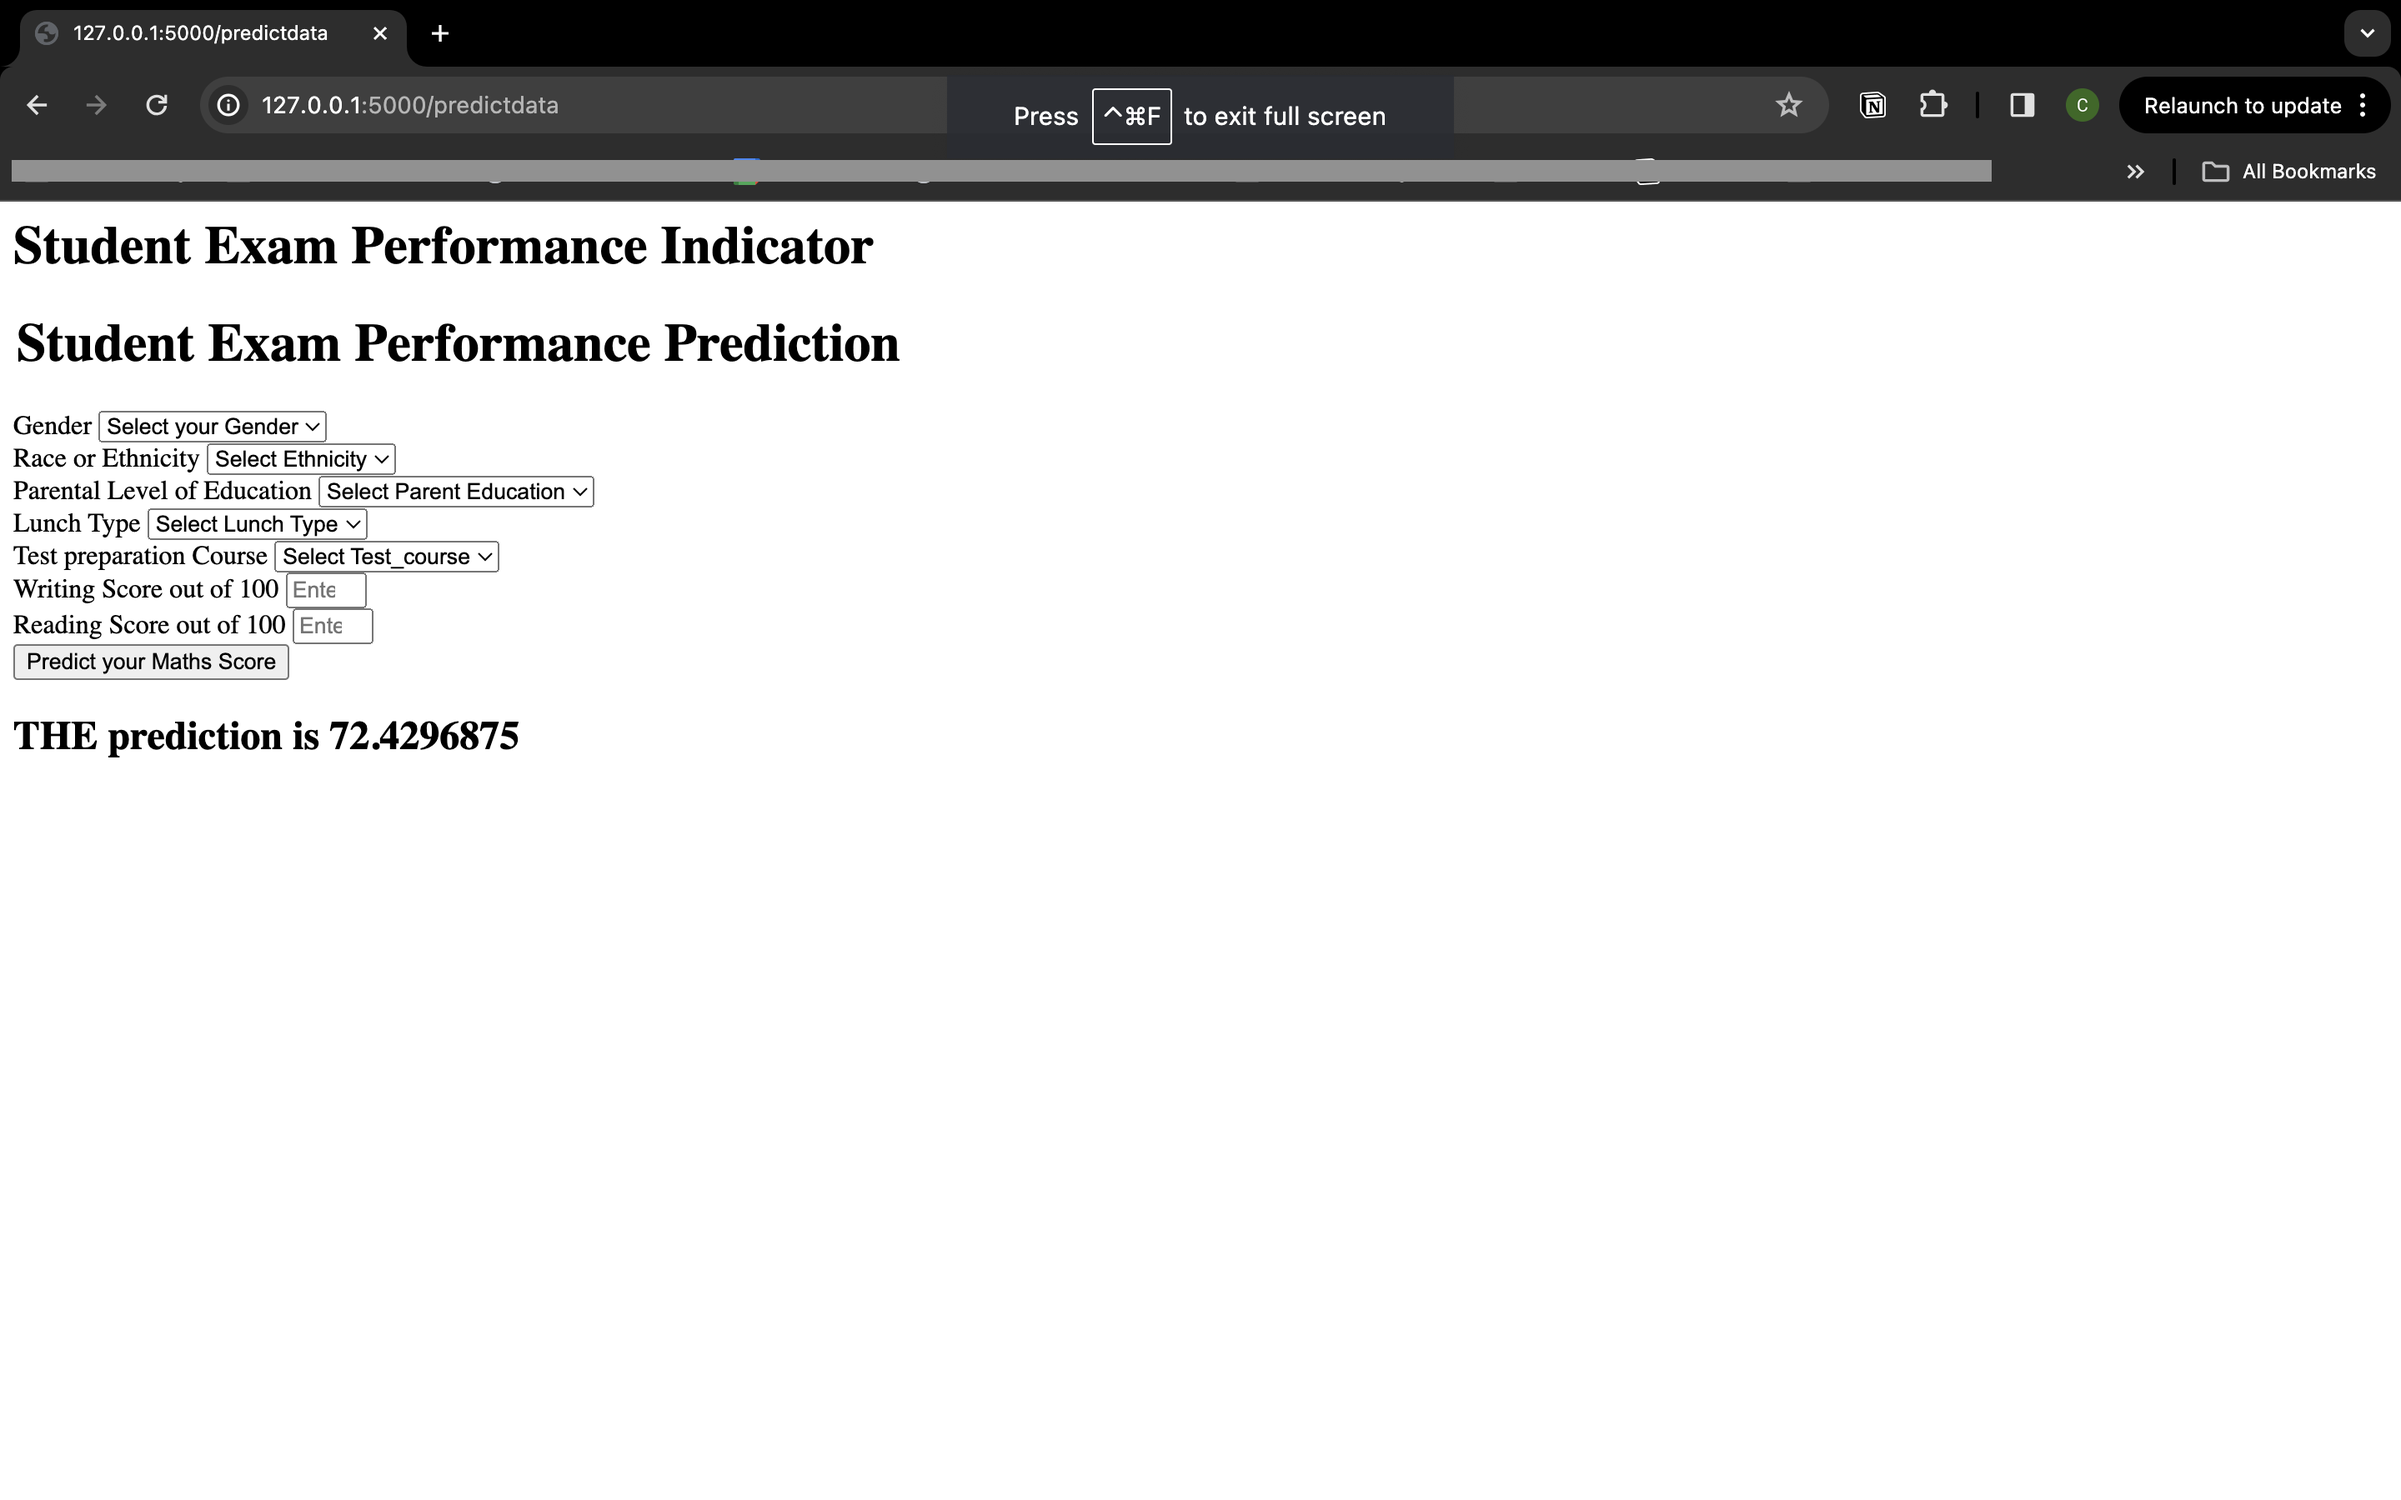
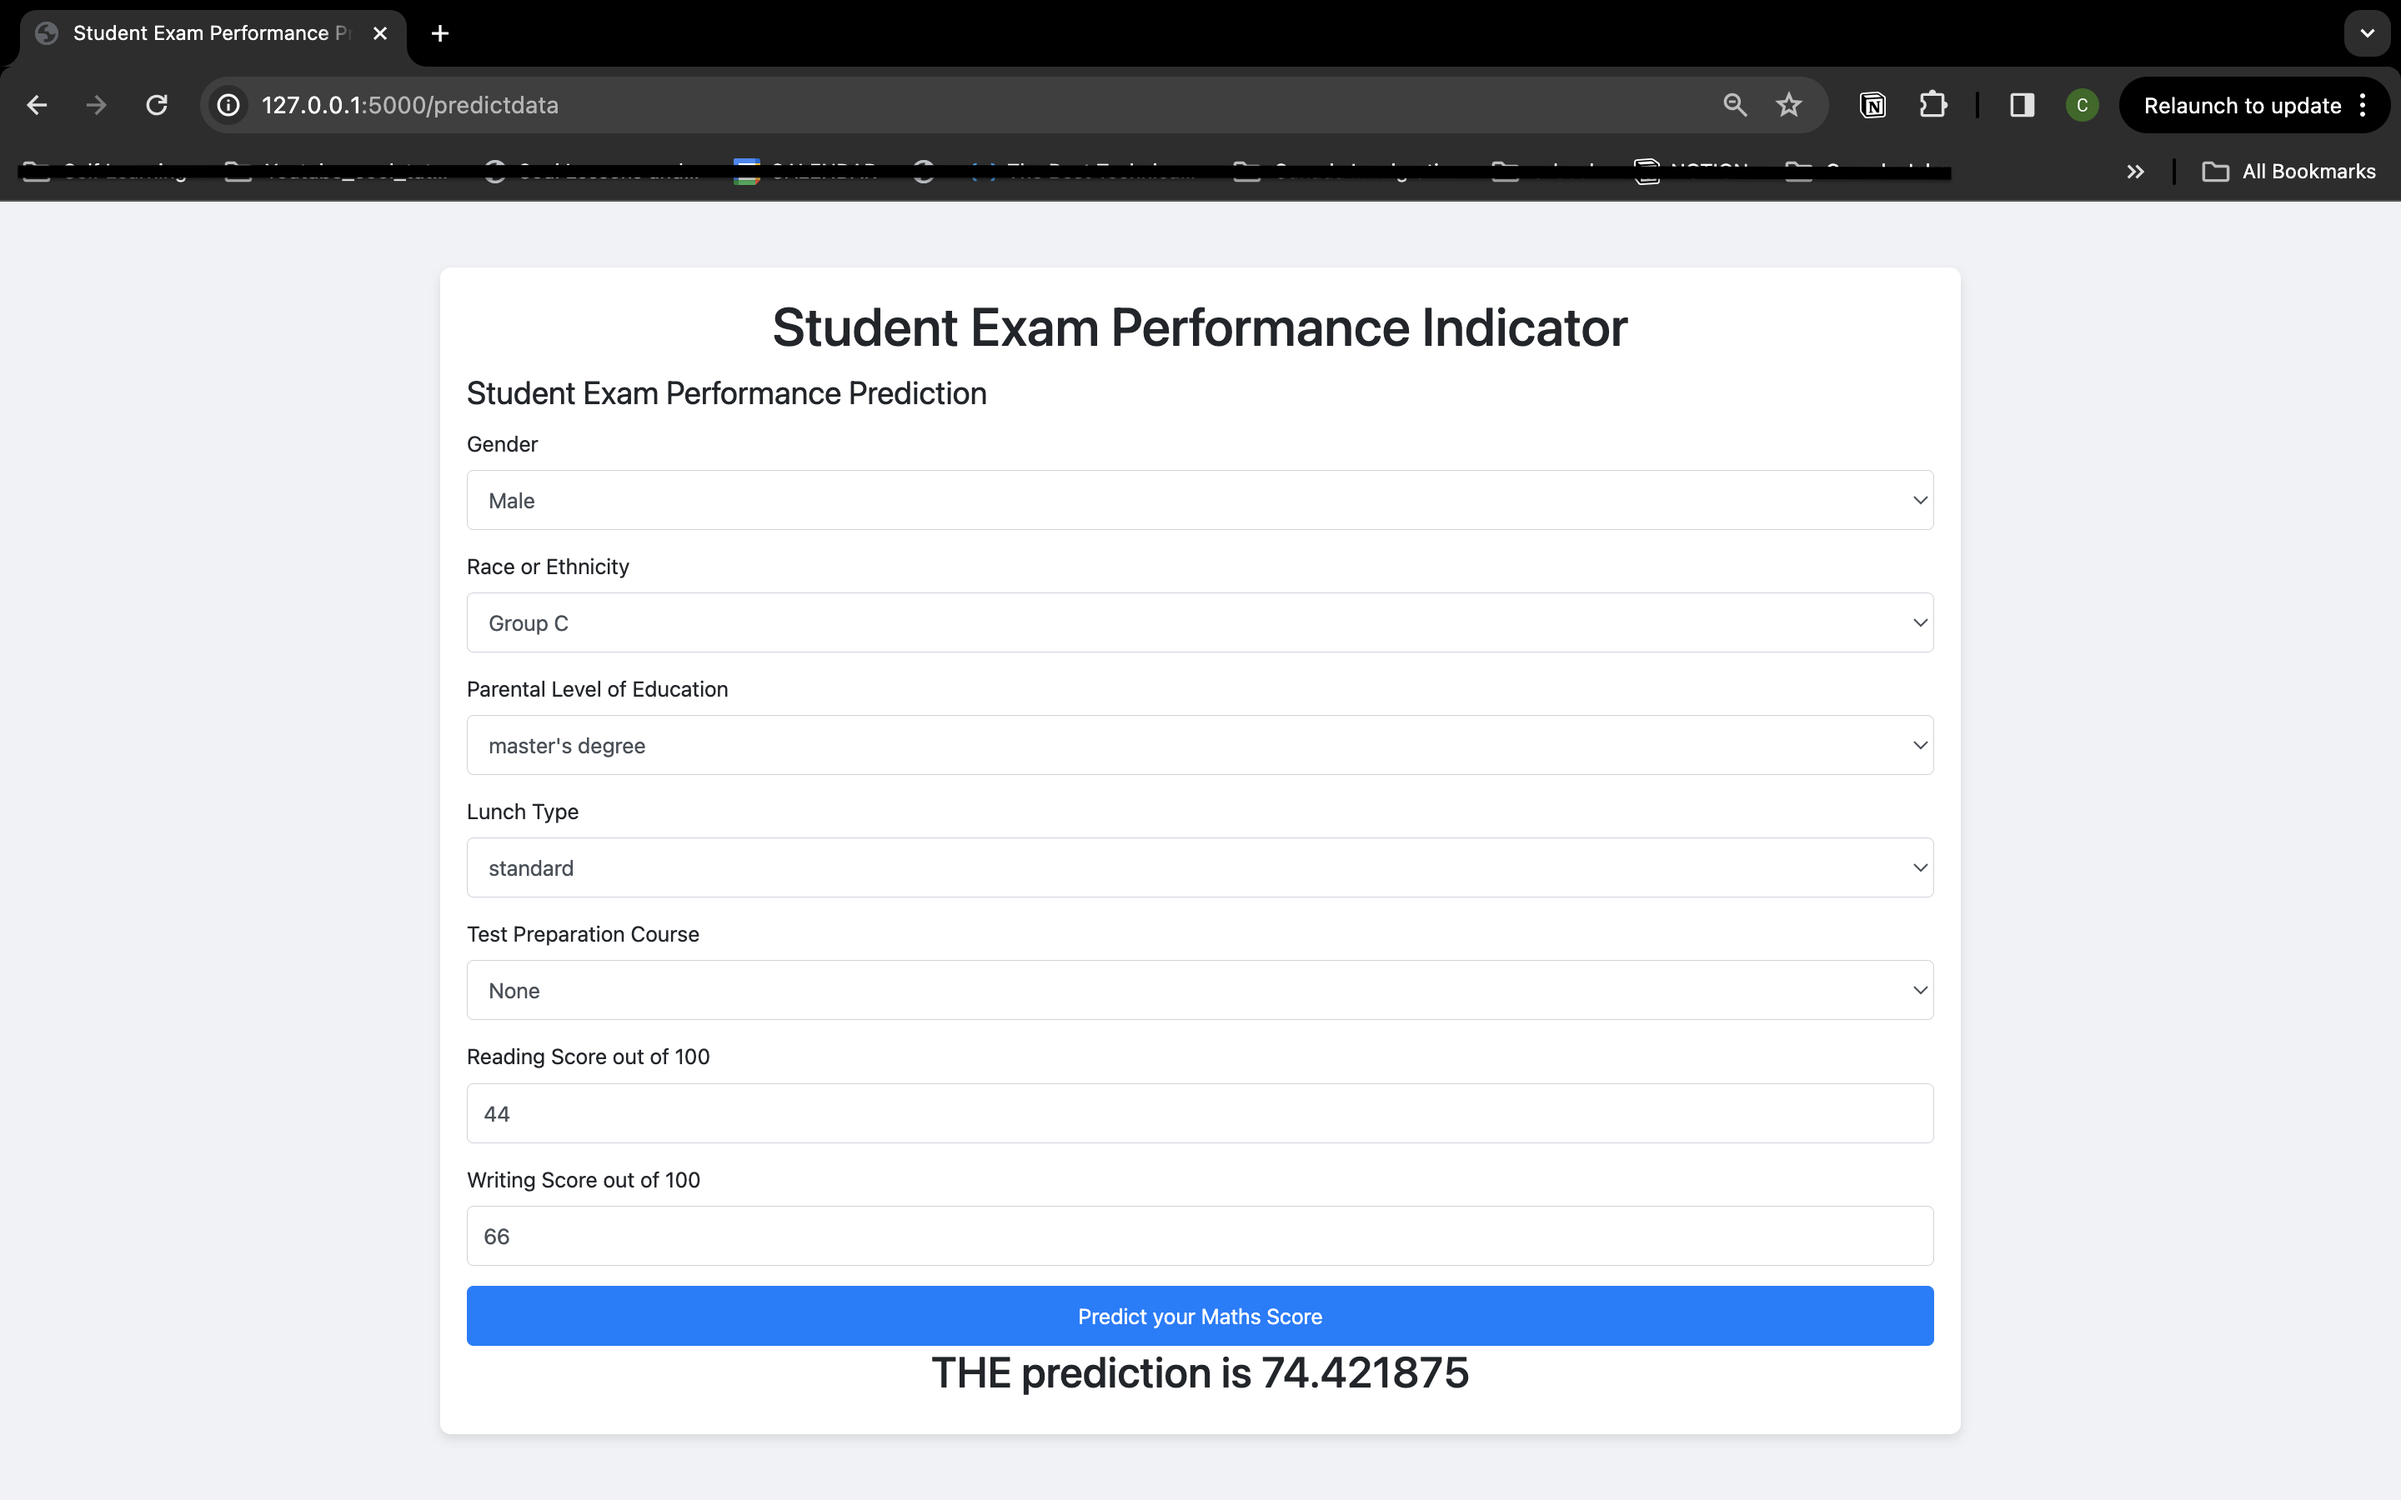
optimize landing page

diff --git a/templates/home.html b/templates/home.html
@@ -1,111 +1,106 @@
-<html>
+<!DOCTYPE html>
+<html lang="en">
+<head>
+    <meta charset="UTF-8">
+    <meta name="viewport" content="width=device-width, initial-scale=1.0">
+    <title>Student Exam Performance Prediction</title>
+    <link rel="stylesheet" href="https://stackpath.bootstrapcdn.com/bootstrap/4.5.2/css/bootstrap.min.css">
+    <style>
+        body {
+            background-color: #f0f2f5;
+            display: flex;
+            justify-content: center;
+            align-items: center;
+            height: 100vh;
+        }
+        .container {
+            background: white;
+            padding: 20px;
+            border-radius: 8px;
+            box-shadow: 0 4px 8px rgba(0,0,0,0.1);
+        }
+        h1, h2 {
+            text-align: center;
+        }
+        .form-group {
+            margin-bottom: 15px;
+        }
+        .form-control {
+            height: 45px;
+            border-radius: 5px;
+        }
+        .btn-primary {
+            width: 100%;
+            padding: 10px;
+            border-radius: 5px;
+        }
+    </style>
+</head>
 <body>
-    <div class="login">
-       <h1>Student Exam Performance Indicator</h1>
-   
-       <form action="{{ url_for('predict_datapoint')}}" method="post">
-        <h1>
-            <legend>Student Exam Performance Prediction</legend>
-        </h1>
-        <div class="mb-3">
-            <label class="form-label">Gender</label>
-            <select class="form-control" name="gender" placeholder="Enter you Gender" required>
-                <option class="placeholder" selected disabled value="">Select your Gender</option>
-                <option value="male">
-                    Male
-                </option>
-                <option value="female">
-                    Female
-                </option>
-            </select>
-        </div>
-        <div class="mb-3">
-            <label class="form-label">Race or Ethnicity</label>
-            <select class="form-control" name="race_ethnicity" placeholder="Enter you race ethnicity" required>
-                <option class="placeholder" selected disabled value="">Select Ethnicity</option>
-                <option value="group A">
-                    Group A
-                </option>
-                <option value="group B">
-                    Group B
-                </option>
-                <option value="group C">
-                    Group C
-                </option>
-                <option value="group D">
-                    Group D
-                </option>
-                <option value="group E">
-                    Group E
-                </option>
-            </select>
-        </div>
-        <div class="mb-3">
-            <label class="form-label">Parental Level of Education</label>
-            <select class="form-control" name="parental_level_of_education"
-                placeholder="Enter you Parent Education" required>
-                <option class="placeholder" selected disabled value="">Select Parent Education</option>
-                <option value="associate's degree">
-                    associate's degree
-                </option>
-                <option value="bachelor's degree">
-                    bachelor's degree
-                </option>
-                <option value="high school">
-                    high school
-                </option>
-                <option value="master's degree">
-                    master's degree
-                </option>
-                <option value="some college">
-                    some college
-                </option>
-                <option value="some high school">
-                    some high school
-                </option>
-            </select>
-        </div>
-        <div class="mb-3">
-            <label class="form-label">Lunch Type</label>
-            <select class="form-control" name="lunch" placeholder="Enter you Lunch" required>
-                <option class="placeholder" selected disabled value="">Select Lunch Type</option>
-                <option value="free/reduced">
-                    free/reduced
-                </option>
-                <option value="standard">
-                    standard
-                </option>
-            </select>
-        </div>
-        <div class="mb-3">
-            <label class="form-label">Test preparation Course</label>
-            <select class="form-control" name="test_preparation_course" placeholder="Enter you Course"
-                required>
-                <option class="placeholder" selected disabled value="">Select Test_course</option>
-                <option value="none">
-                    None
-                </option>
-                <option value="completed">
-                    Completed
-                </option>
-            </select>
-        </div>
-        <div class="mb-3">
-            <label class="form-label">Writing Score out of 100</label>
-            <input class="form-control" type="number" name="reading_score"
-                placeholder="Enter your Reading score" min='0' max='100' />
-        </div>
-        <div class="mb-3">
-            <label class="form-label">Reading Score out of 100</label>
-            <input class="form-control" type="number" name="writing_score"
-                placeholder="Enter your Reading Score" min='0' max='100' />
-        </div>
-        <div class="mb-3">
-            <input class="btn btn-primary" type="submit" value="Predict your Maths Score" required />
-        </div>
-    </form>
-    <h2>
-       THE  prediction is {{results}}
-    </h2>
-   <body>
+    <div class="container">
+        <h1>Student Exam Performance Indicator</h1>
+        <form action="{{ url_for('predict_datapoint')}}" method="post">
+            <fieldset>
+                <legend>Student Exam Performance Prediction</legend>
+                <div class="form-group">
+                    <label for="gender">Gender</label>
+                    <select class="form-control" id="gender" name="gender" required>
+                        <option value="" disabled selected>Select your Gender</option>
+                        <option value="male">Male</option>
+                        <option value="female">Female</option>
+                    </select>
+                </div>
+                <div class="form-group">
+                    <label for="race_ethnicity">Race or Ethnicity</label>
+                    <select class="form-control" id="race_ethnicity" name="race_ethnicity" required>
+                        <option value="" disabled selected>Select Ethnicity</option>
+                        <option value="group A">Group A</option>
+                        <option value="group B">Group B</option>
+                        <option value="group C">Group C</option>
+                        <option value="group D">Group D</option>
+                        <option value="group E">Group E</option>
+                    </select>
+                </div>
+                <div class="form-group">
+                    <label for="parental_level_of_education">Parental Level of Education</label>
+                    <select class="form-control" id="parental_level_of_education" name="parental_level_of_education" required>
+                        <option value="" disabled selected>Select Parent Education</option>
+                        <option value="associate's degree">associate's degree</option>
+                        <option value="bachelor's degree">bachelor's degree</option>
+                        <option value="high school">high school</option>
+                        <option value="master's degree">master's degree</option>
+                        <option value="some college">some college</option>
+                        <option value="some high school">some high school</option>
+                    </select>
+                </div>
+                <div class="form-group">
+                    <label for="lunch">Lunch Type</label>
+                    <select class="form-control" id="lunch" name="lunch" required>
+                        <option value="" disabled selected>Select Lunch Type</option>
+                        <option value="free/reduced">free/reduced</option>
+                        <option value="standard">standard</option>
+                    </select>
+                </div>
+                <div class="form-group">
+                    <label for="test_preparation_course">Test Preparation Course</label>
+                    <select class="form-control" id="test_preparation_course" name="test_preparation_course" required>
+                        <option value="" disabled selected>Select Test Preparation Course</option>
+                        <option value="none">None</option>
+                        <option value="completed">Completed</option>
+                    </select>
+                </div>
+                <div class="form-group">
+                    <label for="reading_score">Reading Score out of 100</label>
+                    <input type="number" class="form-control" id="reading_score" name="reading_score" placeholder="Enter your Reading score" min="0" max="100" required>
+                </div>
+                <div class="form-group">
+                    <label for="writing_score">Writing Score out of 100</label>
+                    <input type="number" class="form-control" id="writing_score" name="writing_score" placeholder="Enter your Writing Score" min="0" max="100" required>
+                </div>
+                <button type="submit" class="btn btn-primary">Predict your Maths Score</button>
+            </fieldset>
+        </form>
+        <h2>THE prediction is {{results}}</h2>
+    </div>
+</body>
 </html>
